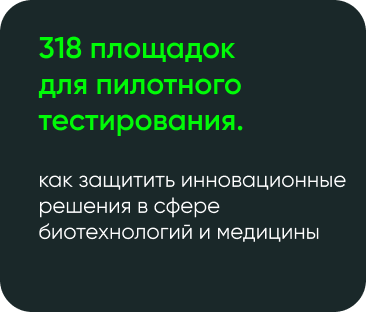
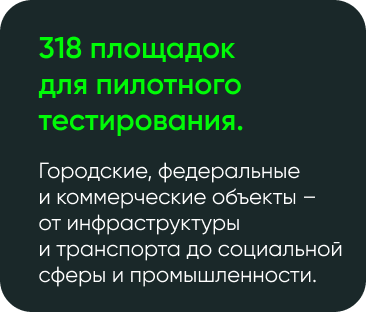
change mik-307

Changed region(s): [[0.0902, 0.5192, 0.9617, 0.8365], [0.0902, 0.8654, 0.8716, 0.9231]]

diff --git a/mik-307/Тестируйте инновации в Москве.html b/mik-307/Тестируйте инновации в Москве.html
@@ -184,7 +184,7 @@
                                         <tbody>
                                         <tr>
                                             <td style="width:183px;">
-                                                <img alt="318 площадок для пилотного тестирования. Как защитить инновационные решения в сфере биотехнологий и медицины" height="auto" src="https://cp.unisender.com/ru/user_file?resource=images&user_id=5608985&name=mik-307-content-img-1_1.png" style="border:0;display:block;outline:none;text-decoration:none;height:auto;width:100%;font-size:13px;" width="183" />
+                                                <img alt="318 площадок для пилотного тестирования. Городские, федеральные и коммерческие объекты – от инфраструктуры и транспорта до социальной сферы и промышленности." height="auto" src="https://cp.unisender.com/ru/user_file?resource=images&user_id=5608985&name=mik-307-content-img-1_1.png" style="border:0;display:block;outline:none;text-decoration:none;height:auto;width:100%;font-size:13px;" width="183" />
                                             </td>
                                         </tr>
                                         </tbody>
@@ -224,7 +224,7 @@
                                         <tbody>
                                         <tr>
                                             <td style="width:183px;">
-                                                <img alt="750+ запущенных пилотных тестирований. Это проекты, которые прошли этап апробации и получили реальный шанс на масштабирование." height="auto" src="https://cp.unisender.com/ru/user_file?resource=images&user_id=5608985&name=mik-307-content-img-1_3.png" style="border:0;display:block;outline:none;text-decoration:none;height:auto;width:100%;font-size:13px;" width="183" />
+                                                <img alt="750+ запущенных пилотных тестирований. Это проекты, которые прошли этап апробации  и получили реальный шанс на масштабирование." height="auto" src="https://cp.unisender.com/ru/user_file?resource=images&user_id=5608985&name=mik-307-content-img-1_3.png" style="border:0;display:block;outline:none;text-decoration:none;height:auto;width:100%;font-size:13px;" width="183" />
                                             </td>
                                         </tr>
                                         </tbody>
@@ -252,7 +252,7 @@
                             <tbody>
                             <tr>
                                 <td align="left" style="font-size:0px;word-break:break-word;padding:24px 0 29px;">
-                                    <div style="font-family: Gilroy, Helvetica, Arial, sans-serif;font-size:30px;font-weight:500;line-height:120%;text-align:left;color:#000000;">ДЕНЬГИ, ПАРТНЕРЫ И&nbsp;ВНЕДРЕНИЯ - В&nbsp;ОДНОМ МАРШРУТЕ</div>
+                                    <div style="font-family: Gilroy, Helvetica, Arial, sans-serif;font-size:30px;font-weight:500;line-height:120%;text-align:left;color:#000000;">ДЕНЬГИ, ПАРТНЕРЫ И&nbsp;ВНЕДРЕНИЯ — В&nbsp;ОДНОМ МАРШРУТЕ</div>
                                 </td>
                             </tr>
                             </tbody>
@@ -379,7 +379,7 @@
                             <tbody>
                             <tr>
                                 <td align="left" style="font-size:0px;word-break:break-word;padding:30px 0;">
-                                    <div style="font-family: Gilroy, Helvetica, Arial, sans-serif;font-size:30px;font-weight:500;line-height:120%;text-align:left;color:#000000;">ЕСЛИ ВЫ&nbsp;ГОТОВЫ К&nbsp;БОЛЬШОМУ РЫНКУ - ГОРОД ГОТОВ К&nbsp;ВАМ</div>
+                                    <div style="font-family: Gilroy, Helvetica, Arial, sans-serif;font-size:30px;font-weight:500;line-height:120%;text-align:left;color:#000000;">ЕСЛИ ВЫ&nbsp;ГОТОВЫ К&nbsp;БОЛЬШОМУ РЫНКУ — ГОРОД ГОТОВ К&nbsp;ВАМ</div>
                                 </td>
                             </tr>
                             </tbody>
